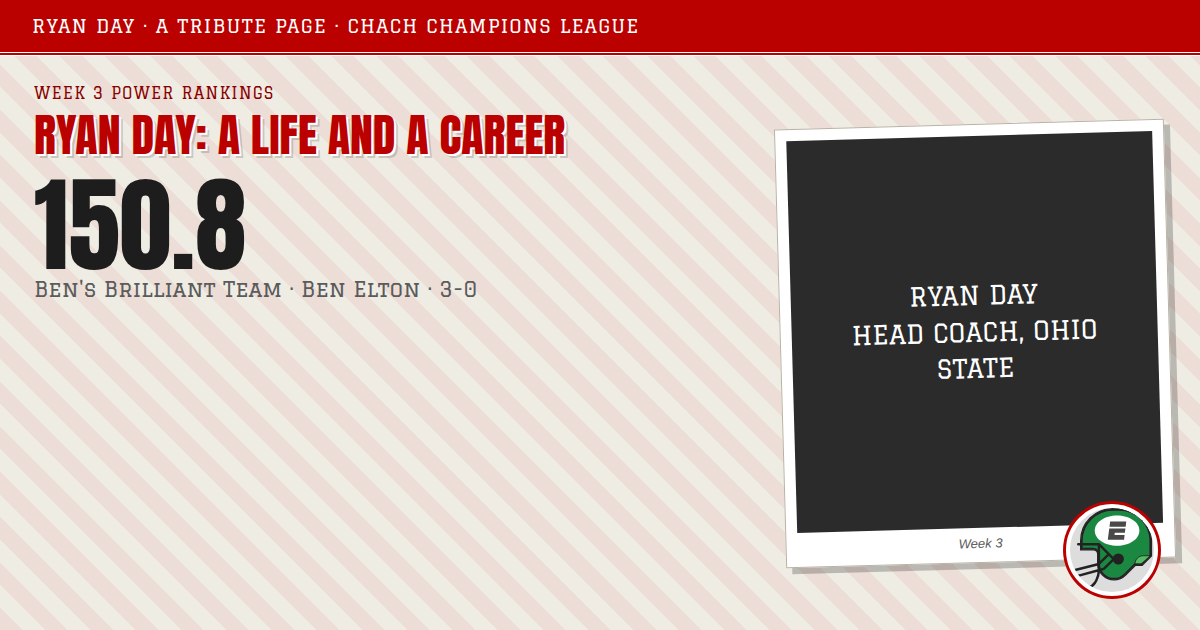
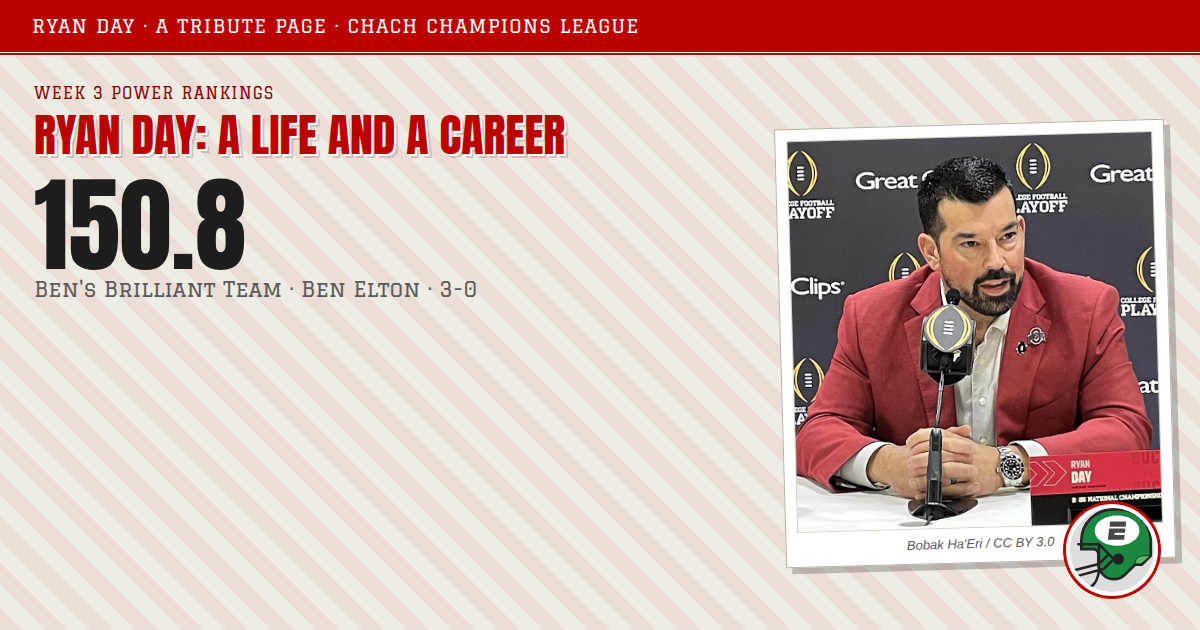
Week 3: Ryan Day, a life and a career

Changed region(s): [[0.6475, 0.2111, 0.9867, 0.8746]]

diff --git a/docs/weeks/week-3.html b/docs/weeks/week-3.html
@@ -196,7 +196,7 @@ footer{margin-top:40px;padding-top:16px;border-top:3px double var(--line);font-s
   .brief{grid-template-columns:1fr 1fr}
   .tlwrap{grid-template-columns:1fr}
   .tlpics{flex-direction:row;flex-wrap:wrap}
-  .tlpics .pic{flex:1 1 30%}
+  .tlpics .pic{flex:1 1 220px;min-width:0}
   .hero-in{grid-template-columns:1fr}
   .pic.big{max-width:340px;transform:none}
   .facts{grid-template-columns:1fr}
@@ -235,9 +235,22 @@ footer{margin-top:40px;padding-top:16px;border-top:3px double var(--line);font-s
   background:var(--scarlet);border:2px solid #efece4;border-radius:50%}
 .yr{display:block;font-family:var(--grad);font-size:12px;letter-spacing:.08em;color:#e8b5b5}
 .ev{font-size:15.5px;line-height:1.5;color:#e7e3d9}
-.tlpics{display:flex;flex-direction:column;gap:12px}
+.tlpics{display:flex;flex-direction:column;gap:12px;min-width:0}
+.tlpics .pic{max-width:100%}
 .tlpics .pic{transform:rotate(-1.4deg)}
 .tlpics .pic:nth-child(2){transform:rotate(1.2deg)}
+
+/* responsive overrides for the biography block, kept last so they win */
+@media (max-width:900px){
+  .brief{grid-template-columns:1fr 1fr}
+  .tlwrap{grid-template-columns:1fr}
+  .tlpics{flex-direction:row;flex-wrap:wrap}
+  .tlpics .pic{flex:1 1 200px;min-width:0}
+}
+@media (max-width:620px){
+  .brief{grid-template-columns:1fr}
+  .tlpics .pic{flex:1 1 100%}
+}
 </style>
 </head>
 <body>
@@ -245,17 +258,17 @@ footer{margin-top:40px;padding-top:16px;border-top:3px double var(--line);font-s
 
 <div class="bar"><div class="bar-in">
   <a class="site" href="../index.html">TheRyanDayPage<span>.geocities.com</span></a>
-  <nav><a href="#scores">Scoreboard</a><a href="#teams">Power Rankings</a><a href="#positions">Report Card</a><a href="#season">Week by Week</a></nav>
+  <nav><a href="#scores">Scoreboard</a><a href="#teams">Power Rankings</a><a href="#positions">Report Card</a><a href="#season">Week by Week</a><a href="#gallery">Photographs</a></nav>
 </div></div>
 
-<header class="hero"><div class="hero-in solo">
+<header class="hero"><div class="hero-in">
   <div class="hero-tx">
     <p class="kick">Week 3 Power Rankings &middot; Chach Champions League</p>
     <h1>Ryan Day: a life and a career</h1>
     <p class="sub">Ryan Day has been the head coach at Ohio State since 2019. He grew up in Manchester, New Hampshire, played quarterback at the University of New Hampshire, and worked at four schools and two NFL teams before he got there. What follows is that career, set out in order, along with the Week 3 power rankings of the Chach Champions League.</p>
     <p class="hits">You are visitor number <b>204691</b> &middot; this page is maintained weekly</p>
   </div>
-  
+  <figure class="pic big"><img src="../assets/day/2025-0118-ryan-day-jpg.jpg" alt="Ryan Day, head coach, Ohio State University." loading="lazy"><figcaption>Ryan Day, head coach, Ohio State University.</figcaption></figure>
 </div></header>
 
 <div class="shrine"><div class="shrine-in">
@@ -264,7 +277,7 @@ footer{margin-top:40px;padding-top:16px;border-top:3px double var(--line);font-s
   <dl class="brief"><div class="bi"><dt>Born</dt><dd>March 12, 1979</dd></div><div class="bi"><dt>Hometown</dt><dd>Manchester, New Hampshire</dd></div><div class="bi"><dt>College</dt><dd>New Hampshire, quarterback</dd></div><div class="bi"><dt>Head coach since</dt><dd>2019, Ohio State</dd></div></dl>
   <div class="tlwrap">
     <ol class="tl"><li><span class="yr">1979</span><div class="ev">Born March 12 in Manchester, New Hampshire.</div></li><li><span class="yr">High school</span><div class="ev">Quarterback at Manchester Central High School. Named New Hampshire&#x27;s Gatorade player of the year.</div></li><li><span class="yr">1998 to 2001</span><div class="ev">Quarterback at the University of New Hampshire. Team captain as a senior. His offensive coordinator was Chip Kelly.</div></li><li><span class="yr">2002</span><div class="ev">First coaching job, tight ends at New Hampshire.</div></li><li><span class="yr">2003 to 2005</span><div class="ev">Graduate assistant at Boston College, then at Florida.</div></li><li><span class="yr">2006</span><div class="ev">Wide receivers at Temple.</div></li><li><span class="yr">2007 to 2011</span><div class="ev">Five seasons coaching wide receivers at Boston College.</div></li><li><span class="yr">2012 to 2014</span><div class="ev">Offensive coordinator at Temple, then offensive coordinator and quarterbacks at Boston College.</div></li><li><span class="yr">2015 and 2016</span><div class="ev">Quarterbacks coach in the NFL, first with the Philadelphia Eagles, then with the San Francisco 49ers alongside Chip Kelly again.</div></li><li><span class="yr">2017</span><div class="ev">Hired at Ohio State as co-offensive coordinator and quarterbacks coach.</div></li><li><span class="yr">2018</span><div class="ev">Acting head coach for the first three games of the season. Ohio State won all three.</div></li><li><span class="yr">2019</span><div class="ev">First full season as head coach. The team finished 13-1.</div></li><li><span class="yr">January 2025</span><div class="ev">Won the national championship, beating Notre Dame 34-23.</div></li><li><span class="yr">November 2025</span><div class="ev">Beat Michigan 27-9, ending a four-game losing run in the rivalry.</div></li><li><span class="yr">2026</span><div class="ev">Ohio State is 3-1 through four games, the loss by a single point at Texas. Most recently a 42-19 win over Illinois on September 26.</div></li></ol>
-    <div class="tlpics"></div>
+    <div class="tlpics"><figure class="pic sm"><img src="../assets/day/the-celebration-of-champions-at-ohio-stadium-columbus-ohio-c.jpg" alt="The celebration of champions at Ohio Stadium" loading="lazy"><figcaption>The celebration of champions at Ohio Stadium</figcaption></figure><figure class="pic sm"><img src="../assets/day/osu-ohio-stadium-closeup-jpg.jpg" alt="Ohio Stadium" loading="lazy"><figcaption>Ohio Stadium</figcaption></figure><figure class="pic sm"><img src="../assets/day/ohio-stadium-columbus-ohio-decorative-tassel-ornaments-on-or.jpg" alt="Detail, Ohio Stadium" loading="lazy"><figcaption>Detail, Ohio Stadium</figcaption></figure></div>
   </div>
   
 </div></div>
@@ -313,7 +326,7 @@ footer{margin-top:40px;padding-top:16px;border-top:3px double var(--line);font-s
   </div>
   <div class="unitbar"><span style="width:7.74%;background:#3987e5" title="QB"></span><span style="width:17.10%;background:#d95926" title="RB"></span><span style="width:42.27%;background:#199e70" title="WR"></span><span style="width:18.30%;background:#c98500" title="TE"></span><span style="width:10.61%;background:#d55181" title="K"></span><span style="width:3.98%;background:#9085e9" title="D/ST"></span></div>
   <div class="rk-b">
-    
+    <figure class="pic mug"><img src="../assets/day/the-white-house-54454806129-jpg.jpg" alt="At the White House with the national championship team" loading="lazy"><figcaption>At the White House with the national championship team</figcaption></figure>
     <div class="say">
       <p class="note"><b>Note:</b> Receivers, tight end and kicker all led the league.</p>
       <p>Ben&#x27;s Brilliant Team scored 150.84 and beat michael&#x27;s Monstrous Team by 3.88, the closest game of the week. Jaxon Smith-Njigba led the way with 35.4. The receivers, the tight end and the kicker each finished first in the league at their position, which is the first time any team has done that this season. Three wins from three. Ryan Day was born on March 12, 1979, in Manchester, New Hampshire.</p>
@@ -330,7 +343,7 @@ footer{margin-top:40px;padding-top:16px;border-top:3px double var(--line);font-s
   </div>
   <div class="unitbar"><span style="width:15.29%;background:#3987e5" title="QB"></span><span style="width:10.63%;background:#d95926" title="RB"></span><span style="width:41.38%;background:#199e70" title="WR"></span><span style="width:11.00%;background:#c98500" title="TE"></span><span style="width:7.48%;background:#d55181" title="K"></span><span style="width:14.22%;background:#9085e9" title="D/ST"></span></div>
   <div class="rk-b">
-    
+    <figure class="pic mug"><img src="../assets/day/ryan-day-2019-png.png" alt="Ryan Day, 2019, his first full season as head coach" loading="lazy"><figcaption>Ryan Day, 2019, his first full season as head coach</figcaption></figure>
     <div class="say">
       <p class="note"><b>Note:</b> Second team in the league at 3-0.</p>
       <p>CeeDeez Nutz scored 133.64 and beat Adams and Jefferson by 43.64. Christian Watson led the team with 22.6 from the flex, and the Vikings defense added 19, the best defensive figure of the week. The team is 3-0 and second in the rankings, having won every week without once holding the highest score. Day played quarterback at Manchester Central High School and was named New Hampshire&#x27;s Gatorade player of the year.</p>
@@ -347,7 +360,7 @@ footer{margin-top:40px;padding-top:16px;border-top:3px double var(--line);font-s
   </div>
   <div class="unitbar"><span style="width:11.88%;background:#3987e5" title="QB"></span><span style="width:43.14%;background:#d95926" title="RB"></span><span style="width:31.03%;background:#199e70" title="WR"></span><span style="width:1.02%;background:#c98500" title="TE"></span><span style="width:6.80%;background:#d55181" title="K"></span><span style="width:6.12%;background:#9085e9" title="D/ST"></span></div>
   <div class="rk-b">
-    
+    <figure class="pic mug"><img src="../assets/day/ryan-day-fau-png.png" alt="On the sideline at Ohio Stadium" loading="lazy"><figcaption>On the sideline at Ohio Stadium</figcaption></figure>
     <div class="say">
       <p class="note"><b>Note:</b> 107.54 points left on the bench.</p>
       <p>michael&#x27;s Monstrous Team scored 146.96, the highest losing score recorded this season, and lost by 3.88. Jahmyr Gibbs returned 41.4, the best individual figure in the league this week. A further 107.54 points were left on the bench, more than seven teams scored in total. The team falls from first to third at 2-1. Day played quarterback at the University of New Hampshire from 1998 to 2001 and was a captain in his senior year.</p>
@@ -364,7 +377,7 @@ footer{margin-top:40px;padding-top:16px;border-top:3px double var(--line);font-s
   </div>
   <div class="unitbar"><span style="width:20.98%;background:#3987e5" title="QB"></span><span style="width:32.40%;background:#d95926" title="RB"></span><span style="width:23.48%;background:#199e70" title="WR"></span><span style="width:11.07%;background:#c98500" title="TE"></span><span style="width:5.37%;background:#d55181" title="K"></span><span style="width:6.71%;background:#9085e9" title="D/ST"></span></div>
   <div class="rk-b">
-    
+    <figure class="pic mug"><img src="../assets/day/ryan-day-press-conference-png.png" alt="Ryan Day at an Ohio State press conference" loading="lazy"><figcaption>Ryan Day at an Ohio State press conference</figcaption></figure>
     <div class="say">
       <p class="note"><b>Note:</b> Largest margin of the week, 83.16.</p>
       <p>Purdy Seconds to Mars scored 149.08 against 65.92, a margin of 83.16 and the widest of the season so far. Bijan Robinson led the team with 35.3. It is a second consecutive win and lifts the team two places to fourth at 2-1. Day&#x27;s offensive coordinator at New Hampshire was Chip Kelly, who later hired him twice in the NFL.</p>
@@ -381,7 +394,7 @@ footer{margin-top:40px;padding-top:16px;border-top:3px double var(--line);font-s
   </div>
   <div class="unitbar"><span style="width:13.58%;background:#3987e5" title="QB"></span><span style="width:30.48%;background:#d95926" title="RB"></span><span style="width:37.79%;background:#199e70" title="WR"></span><span style="width:2.37%;background:#c98500" title="TE"></span><span style="width:9.32%;background:#d55181" title="K"></span><span style="width:6.45%;background:#9085e9" title="D/ST"></span></div>
   <div class="rk-b">
-    
+    <figure class="pic mug"><img src="../assets/day/2025-0120-ohio-state-post-game-presser-jpg.jpg" alt="After the national championship game, January 2025" loading="lazy"><figcaption>After the national championship game, January 2025</figcaption></figure>
     <div class="say">
       <p class="note"><b>Note:</b> Rose five places, the largest move of the week.</p>
       <p>Cortisol Spyke Weeks scored 139.44 and beat Team Galakrond by 48.3. Ja&#x27;Marr Chase led the team with 24.8, and both the backfield and the receiver room finished in the league&#x27;s top three. It is a second straight win and a rise of five places to fifth, the largest move anybody made this week. Day&#x27;s first coaching job came in 2002, with the tight ends at New Hampshire.</p>
@@ -398,7 +411,7 @@ footer{margin-top:40px;padding-top:16px;border-top:3px double var(--line);font-s
   </div>
   <div class="unitbar"><span style="width:19.15%;background:#3987e5" title="QB"></span><span style="width:41.04%;background:#d95926" title="RB"></span><span style="width:21.56%;background:#199e70" title="WR"></span><span style="width:6.84%;background:#c98500" title="TE"></span><span style="width:7.26%;background:#d55181" title="K"></span><span style="width:4.15%;background:#9085e9" title="D/ST"></span></div>
   <div class="rk-b">
-    
+    <figure class="pic mug"><img src="../assets/day/2025-0118-ryan-day-jpg.jpg" alt="Ryan Day at the College Football Playoff national championship, January 2025" loading="lazy"><figcaption>Ryan Day at the College Football Playoff national championship, January 2025</figcaption></figure>
     <div class="say">
       <p class="note"><b>Note:</b> Lowest winning score on the board.</p>
       <p>Dake Bates scored 96.48 and beat the roadrunners by 5.14 in the lowest-scoring game of the week. Jordan Love led the team with 18.5. It was the lowest winning score on the board, and the team sits sixth at 2-1, having opened the season with 177.86 in week one. Day spent 2003 and 2004 as a graduate assistant at Boston College, then 2005 in the same role at Florida.</p>
@@ -415,7 +428,7 @@ footer{margin-top:40px;padding-top:16px;border-top:3px double var(--line);font-s
   </div>
   <div class="unitbar"><span style="width:19.14%;background:#3987e5" title="QB"></span><span style="width:23.97%;background:#d95926" title="RB"></span><span style="width:28.22%;background:#199e70" title="WR"></span><span style="width:21.09%;background:#c98500" title="TE"></span><span style="width:1.52%;background:#d55181" title="K"></span><span style="width:6.07%;background:#9085e9" title="D/ST"></span></div>
   <div class="rk-b">
-    
+    <figure class="pic mug"><img src="../assets/day/the-white-house-54454806129-jpg.jpg" alt="At the White House with the national championship team" loading="lazy"><figcaption>At the White House with the national championship team</figcaption></figure>
     <div class="say">
       <p class="note"><b>Note:</b> Lost every one of its eleven all-play matchups.</p>
       <p>Bingo Night scored 65.92 and lost by 83.16. Travis Kelce led the team with 13.9. The bench returned 82.8, well above the lineup that played, and the team lost all eleven of its all-play matchups, the first time any team has done so this season. The record stands at 2-1, seventh in the rankings. Day coached wide receivers at Temple in 2006.</p>
@@ -432,7 +445,7 @@ footer{margin-top:40px;padding-top:16px;border-top:3px double var(--line);font-s
   </div>
   <div class="unitbar"><span style="width:20.70%;background:#3987e5" title="QB"></span><span style="width:24.94%;background:#d95926" title="RB"></span><span style="width:48.95%;background:#199e70" title="WR"></span><span style="width:1.74%;background:#c98500" title="TE"></span><span style="width:3.67%;background:#d55181" title="K"></span></div>
   <div class="rk-b">
-    
+    <figure class="pic mug"><img src="../assets/day/ryan-day-2019-png.png" alt="Ryan Day, 2019, his first full season as head coach" loading="lazy"><figcaption>Ryan Day, 2019, his first full season as head coach</figcaption></figure>
     <div class="say">
       <p class="note"><b>Note:</b> First win of the season.</p>
       <p>Team evil scored 109.08 and beat Drake Maye Sucks Ass by 14.32 for its first win of the season. Garrett Wilson led the team with 26.7. The 49ers defense returned nothing. The team rises three places to eighth at 1-2, after losing by 75.9 in week one and by 0.4 in week two. Day coached wide receivers at Boston College for five seasons, from 2007 to 2011.</p>
@@ -449,7 +462,7 @@ footer{margin-top:40px;padding-top:16px;border-top:3px double var(--line);font-s
   </div>
   <div class="unitbar"><span style="width:23.22%;background:#3987e5" title="QB"></span><span style="width:26.11%;background:#d95926" title="RB"></span><span style="width:32.89%;background:#199e70" title="WR"></span><span style="width:6.67%;background:#c98500" title="TE"></span><span style="width:5.56%;background:#d55181" title="K"></span><span style="width:5.56%;background:#9085e9" title="D/ST"></span></div>
   <div class="rk-b">
-    
+    <figure class="pic mug"><img src="../assets/day/ryan-day-fau-png.png" alt="On the sideline at Ohio Stadium" loading="lazy"><figcaption>On the sideline at Ohio Stadium</figcaption></figure>
     <div class="say">
       <p class="note"><b>Note:</b> 0-3 with the fourth-most points in the league.</p>
       <p>Adams and Jefferson scored 90.00 and lost by 43.64. Matthew Stafford led the team with 20.9. A further 81.54 points were left on the bench. The team is 0-3 while holding the fourth-most points in the league, a combination no other team has managed this season. Day was offensive coordinator at Temple in 2012, then at Boston College in 2013 and 2014.</p>
@@ -466,7 +479,7 @@ footer{margin-top:40px;padding-top:16px;border-top:3px double var(--line);font-s
   </div>
   <div class="unitbar"><span style="width:3.97%;background:#3987e5" title="QB"></span><span style="width:32.08%;background:#d95926" title="RB"></span><span style="width:45.59%;background:#199e70" title="WR"></span><span style="width:7.81%;background:#c98500" title="TE"></span><span style="width:11.61%;background:#d55181" title="K"></span></div>
   <div class="rk-b">
-    
+    <figure class="pic mug"><img src="../assets/day/ryan-day-press-conference-png.png" alt="Ryan Day at an Ohio State press conference" loading="lazy"><figcaption>Ryan Day at an Ohio State press conference</figcaption></figure>
     <div class="say">
       <p class="note"><b>Note:</b> Started the quarterback the team is named after.</p>
       <p>Drake Maye Sucks Ass scored 94.76 and lost by 14.32. Drake London led the team with 28.4. Drake Maye, the quarterback the team is named after, returned 3.8, and the Eagles defense finished at minus one, a negative figure in a starting lineup. The team falls two places to tenth at 1-2. Day coached quarterbacks in the NFL for two seasons, with the Philadelphia Eagles in 2015 and the San Francisco 49ers in 2016.</p>
@@ -483,7 +496,7 @@ footer{margin-top:40px;padding-top:16px;border-top:3px double var(--line);font-s
   </div>
   <div class="unitbar"><span style="width:13.98%;background:#3987e5" title="QB"></span><span style="width:44.33%;background:#d95926" title="RB"></span><span style="width:25.89%;background:#199e70" title="WR"></span><span style="width:5.92%;background:#c98500" title="TE"></span><span style="width:9.87%;background:#d55181" title="K"></span></div>
   <div class="rk-b">
-    
+    <figure class="pic mug"><img src="../assets/day/2025-0120-ohio-state-post-game-presser-jpg.jpg" alt="After the national championship game, January 2025" loading="lazy"><figcaption>After the national championship game, January 2025</figcaption></figure>
     <div class="say">
       <p class="note"><b>Note:</b> 0-3 with the best rushing total of the week.</p>
       <p>Team Galakrond scored 91.14 and lost by 48.3. Kenneth Walker led the team with 21.3 and the backfield produced 40.4, the best rushing figure of the week. Every other position returned less than the league average. The team is 0-3 and eleventh. Day arrived at Ohio State in 2017 as co-offensive coordinator and quarterbacks coach, and served as acting head coach for the first three games of 2018, all of which the team won.</p>
@@ -500,7 +513,7 @@ footer{margin-top:40px;padding-top:16px;border-top:3px double var(--line);font-s
   </div>
   <div class="unitbar"><span style="width:14.93%;background:#3987e5" title="QB"></span><span style="width:28.68%;background:#d95926" title="RB"></span><span style="width:38.87%;background:#199e70" title="WR"></span><span style="width:9.85%;background:#d55181" title="K"></span><span style="width:7.66%;background:#9085e9" title="D/ST"></span></div>
   <div class="rk-b">
-    
+    <figure class="pic mug"><img src="../assets/day/2025-0118-ryan-day-jpg.jpg" alt="Ryan Day at the College Football Playoff national championship, January 2025" loading="lazy"><figcaption>Ryan Day at the College Football Playoff national championship, January 2025</figcaption></figure>
     <div class="say">
       <p class="note"><b>Note:</b> 0-3, and a second zero from the tight end slot.</p>
       <p>The roadrunners scored 91.34 and lost by 5.14. Matthew Golden led the team with 21.0, and the tight end slot returned zero for the second time in three weeks. A further 72.18 points were left on the bench. The team is 0-3 and twelfth, the only side yet to record a win or a top-half finish. Day&#x27;s first full season as head coach, in 2019, ended 13-1, and Ohio State won the national championship in January 2025, beating Notre Dame 34-23.</p>
@@ -525,14 +538,18 @@ footer{margin-top:40px;padding-top:16px;border-top:3px double var(--line);font-s
       <p class="cnote">Rank one at the top. A column is added each Monday night.</p></div>
   </section>
 
-  
+  <section id="gallery">
+    <h2 class="banner">Photographs</h2>
+    <p class="lede">Photographs are from Wikimedia Commons and are reused under their stated licences. Credits are listed at the foot of the page.</p>
+    <div class="gal"><figure class="gp"><img src="../assets/day/2025-0118-ryan-day-jpg.jpg" alt="Ryan Day at the College Football Playoff national championship, January 2025" loading="lazy"><figcaption>Ryan Day at the College Football Playoff national championship, January 2025<span>Bobak Ha&#x27;Eri &middot; CC BY 3.0</span></figcaption></figure><figure class="gp"><img src="../assets/day/the-white-house-54454806129-jpg.jpg" alt="At the White House with the national championship team" loading="lazy"><figcaption>At the White House with the national championship team<span>The White House &middot; Public domain</span></figcaption></figure><figure class="gp"><img src="../assets/day/ryan-day-2019-png.png" alt="Ryan Day, 2019, his first full season as head coach" loading="lazy"><figcaption>Ryan Day, 2019, his first full season as head coach<span>CFB ON FOX &middot; CC BY 3.0</span></figcaption></figure><figure class="gp"><img src="../assets/day/ryan-day-fau-png.png" alt="On the sideline at Ohio Stadium" loading="lazy"><figcaption>On the sideline at Ohio Stadium<span>Fox Sports &middot; CC BY 3.0</span></figcaption></figure><figure class="gp"><img src="../assets/day/ryan-day-press-conference-png.png" alt="Ryan Day at an Ohio State press conference" loading="lazy"><figcaption>Ryan Day at an Ohio State press conference<span>CFB on FOX &middot; CC BY 3.0</span></figcaption></figure><figure class="gp"><img src="../assets/day/2025-0120-ohio-state-post-game-presser-jpg.jpg" alt="After the national championship game, January 2025" loading="lazy"><figcaption>After the national championship game, January 2025<span>Bobak Ha&#x27;Eri &middot; CC BY 3.0</span></figcaption></figure><figure class="gp"><img src="../assets/day/the-celebration-of-champions-at-ohio-stadium-columbus-ohio-c.jpg" alt="The celebration of champions at Ohio Stadium" loading="lazy"><figcaption>The celebration of champions at Ohio Stadium<span>Nheyob &middot; CC0</span></figcaption></figure><figure class="gp"><img src="../assets/day/osu-ohio-stadium-closeup-jpg.jpg" alt="Ohio Stadium" loading="lazy"><figcaption>Ohio Stadium<span>Ibagli &middot; Public domain</span></figcaption></figure><figure class="gp"><img src="../assets/day/ohio-stadium-columbus-ohio-decorative-tassel-ornaments-on-or.jpg" alt="Detail, Ohio Stadium" loading="lazy"><figcaption>Detail, Ohio Stadium<span>Nheyob &middot; CC BY-SA 4.0</span></figcaption></figure><figure class="gp"><img src="../assets/day/ohio-stadium-01-jpg.jpg" alt="Ohio Stadium from the outside" loading="lazy"><figcaption>Ohio Stadium from the outside<span>tlarrow &middot; CC BY-SA 2.0</span></figcaption></figure><figure class="gp"><img src="../assets/day/ohio-stadium-02-jpg.jpg" alt="The Horseshoe" loading="lazy"><figcaption>The Horseshoe<span>puroticorico &middot; CC BY 2.0</span></figcaption></figure><figure class="gp"><img src="../assets/day/ohio-stadium-aerial-jpg.jpg" alt="Ohio Stadium, Columbus" loading="lazy"><figcaption>Ohio Stadium, Columbus<span>Lectrician2 &middot; CC BY-SA 4.0</span></figcaption></figure></div>
+  </section>
 
   
 
   <footer>
     <p>Data pulled from ESPN on Monday night, once the last game is final.
       <a href="../index.html">Back to all weeks</a></p>
-    
+    <details class="cred"><summary>Photo credits and licences</summary><ul><li><a href="https://commons.wikimedia.org/wiki/File%3A2025-0118_Ryan_Day.jpg">Ryan Day at the College Football Playoff national championship, January 2025</a> by Bobak Ha&#x27;Eri, CC BY 3.0</li><li><a href="https://commons.wikimedia.org/wiki/File:The_White_House_54454806129.jpg">At the White House with the national championship team</a> by The White House, Public domain</li><li><a href="https://commons.wikimedia.org/wiki/File%3ARyan_Day_2019.png">Ryan Day, 2019, his first full season as head coach</a> by CFB ON FOX, CC BY 3.0</li><li><a href="https://commons.wikimedia.org/wiki/File%3ARyan_Day_FAU.png">On the sideline at Ohio Stadium</a> by Fox Sports, CC BY 3.0</li><li><a href="https://commons.wikimedia.org/wiki/File%3ARyan_Day_press_conference.png">Ryan Day at an Ohio State press conference</a> by CFB on FOX, CC BY 3.0</li><li><a href="https://commons.wikimedia.org/wiki/File%3A2025-0120_Ohio_State_post-game_presser.jpg">After the national championship game, January 2025</a> by Bobak Ha&#x27;Eri, CC BY 3.0</li><li><a href="https://commons.wikimedia.org/wiki/File%3ATHE_Celebration_of_Champions_at_Ohio_Stadium_%28Columbus%2C_Ohio%29_-_Coach_Ryan_Day_speaking.jpg">The celebration of champions at Ohio Stadium</a> by Nheyob, CC0</li><li><a href="https://commons.wikimedia.org/wiki/File%3AOSU_Ohio_Stadium_closeup.JPG">Ohio Stadium</a> by Ibagli, Public domain</li><li><a href="https://commons.wikimedia.org/wiki/File%3AOhio_Stadium_%28Columbus%2C_Ohio%29_-_decorative_tassel_ornaments_on_original_exterior.jpg">Detail, Ohio Stadium</a> by Nheyob, CC BY-SA 4.0</li><li><a href="https://commons.wikimedia.org/wiki/File%3AOhio_Stadium_01.jpg">Ohio Stadium from the outside</a> by tlarrow, CC BY-SA 2.0</li><li><a href="https://commons.wikimedia.org/wiki/File%3AOhio_Stadium_02.jpg">The Horseshoe</a> by puroticorico, CC BY 2.0</li><li><a href="https://commons.wikimedia.org/wiki/File%3AOhio_Stadium_Aerial.jpg">Ohio Stadium, Columbus</a> by Lectrician2, CC BY-SA 4.0</li></ul><p>Photographs from Wikimedia Commons, reused under their stated licences.</p></details>
     <p class="disc">An unofficial tribute page. Not affiliated with Ryan Day or Ohio State University.</p>
   </footer>
 </main>

diff --git a/scripts/skins/ryanday.css b/scripts/skins/ryanday.css
@@ -178,7 +178,7 @@ footer{margin-top:40px;padding-top:16px;border-top:3px double var(--line);font-s
   .brief{grid-template-columns:1fr 1fr}
   .tlwrap{grid-template-columns:1fr}
   .tlpics{flex-direction:row;flex-wrap:wrap}
-  .tlpics .pic{flex:1 1 30%}
+  .tlpics .pic{flex:1 1 220px;min-width:0}
   .hero-in{grid-template-columns:1fr}
   .pic.big{max-width:340px;transform:none}
   .facts{grid-template-columns:1fr}
@@ -217,6 +217,19 @@ footer{margin-top:40px;padding-top:16px;border-top:3px double var(--line);font-s
   background:var(--scarlet);border:2px solid #efece4;border-radius:50%}
 .yr{display:block;font-family:var(--grad);font-size:12px;letter-spacing:.08em;color:#e8b5b5}
 .ev{font-size:15.5px;line-height:1.5;color:#e7e3d9}
-.tlpics{display:flex;flex-direction:column;gap:12px}
+.tlpics{display:flex;flex-direction:column;gap:12px;min-width:0}
+.tlpics .pic{max-width:100%}
 .tlpics .pic{transform:rotate(-1.4deg)}
 .tlpics .pic:nth-child(2){transform:rotate(1.2deg)}
+
+/* responsive overrides for the biography block, kept last so they win */
+@media (max-width:900px){
+  .brief{grid-template-columns:1fr 1fr}
+  .tlwrap{grid-template-columns:1fr}
+  .tlpics{flex-direction:row;flex-wrap:wrap}
+  .tlpics .pic{flex:1 1 200px;min-width:0}
+}
+@media (max-width:620px){
+  .brief{grid-template-columns:1fr}
+  .tlpics .pic{flex:1 1 100%}
+}

diff --git a/scripts/fetch_photos.py b/scripts/fetch_photos.py
@@ -21,6 +21,11 @@ API = "https://commons.wikimedia.org/w/api.php"
 UA = {"User-Agent": "fantasy-power-rankings/1.0 (github.com/scoducks8)"}
 
 # search term -> how many files to keep
+# term -> how many files to keep. A required word filters look-alikes: there is
+# a snooker player named Ryan Day, and searches otherwise return other coaches.
+REQUIRE = {"Ryan Day football coach": ("ryan day",)}
+BLOCK = ("snooker", "walden", "eckardt", "zook", "withers", "walters", "white house")
+
 TERMS = {
     "Ryan Day football coach": 8,
     "Ohio State Buckeyes football head coach": 4,
@@ -99,6 +104,14 @@ def main() -> None:
                 if not mime.startswith("image/") or mime == "image/svg+xml":
                     continue
                 if not lic or BAD_LICENSE.search(lic):
+                    continue
+                low = name.lower()
+                if any(b in low for b in BLOCK):
+                    print(f"  - skipped {name[5:]} (look-alike)")
+                    continue
+                need = REQUIRE.get(term)
+                if need and not any(w in low for w in need):
+                    print(f"  - skipped {name[5:]} (missing {need[0]})")
                     continue
                 ext = ".jpg" if "jpeg" in mime else "." + mime.split("/")[-1]
                 fname = f"{slug(name[5:])}{ext}"
